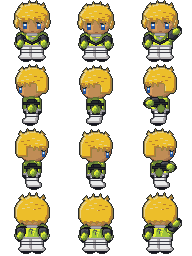
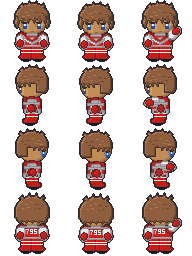
Give Louis Jonez brown hair and a red and white kit, number 795
Claude-Session: https://claude.ai/code/session_01NrCmSZao88D1NNavqoCqUi

Changed region(s): [[0.7188, 0.0, 0.9375, 1.0], [0.0625, 0.0, 0.2812, 1.0], [0.4062, 0.0, 0.5938, 1.0]]

diff --git a/README.md b/README.md
@@ -174,7 +174,7 @@ Markers come from `story.json` and the maps' doors and exits, so a new step need
   - The result is rolled first. Then the game draws a moto that plays out that way if you hold your starting message, so auto-complete always matches the roll. In a live race the pit board can still change it. A loss is one where you finish behind someone. A moto where your bike gives out is never picked to make a loss.
 - **Scrapyard errands** (`errands.json`, `src/core/errands.ts`). The **scrapyard owner** in the Industrial Zone lends you one of his worn parts (Grade 2 or 3, 30% to 70%, never broken) to get repaired at the garage and bring back. He pays you back the repair plus **£5**, to be balanced later. You get one job at a time, and the next one is offered straight away. The part is tagged as his in the save. It can't be fitted, sold or dumped (or put in the modifier machine, when that comes), and trying says "I don't own this part. I'm trusted to fix it and take it back to the scrapyard owner." It is repaired from the garage's Repairs tab.
 - **Records tab** in the bike/bag/task panel. It shows wins out of attempts for race days at each track (such as "Riverside Arena: wins 3/26"), each championship (with your best finish) and each challenge. Championships stay repeatable after a win, with no second badge or trophy. Race days are counted per track from this build on.
-- **New NPCs.** These are Mickey Alington, Dan Smyth, the scrapyard owner and **Neal Gizard**, the end-game racer. Neal stands by the closed south road in full MX kit and helmet, and for now he only tells you to come back on a 450cc. The local racer is now called **Louis Jonez**. The new sprites are made by the shared character generator (`art/characters/tools/make_characters.py`, npc-13 to npc-16).
+- **New NPCs.** These are Mickey Alington, Dan Smyth, the scrapyard owner and **Neal Gizard**, the end-game racer. Neal stands by the closed south road in full MX kit and helmet, and for now he only tells you to come back on a 450cc. The local racer is now called **Louis Jonez**. He has brown hair and a red and white kit with **795** on his back (Boss, 29 Oct 2026). The new sprites are made by the shared character generator (`art/characters/tools/make_characters.py`, npc-13 to npc-16).
 - **Half concrete, half mud.** There are three new section types: **Concrete straight**, **Concrete corner** and **Concrete to mud**. A track can now have a concrete base surface. A first draft of Dan's Industrial Zone challenge track is in the mod tracks folder (`public/mods/tracks/industrial-challenge.track.json`) for Boss to brush up in the track editor. It has a concrete yard with tight corners and a chicane, and a mud half with whoops, ruts and berms.
 
 ### Alpha v1: three race venues
